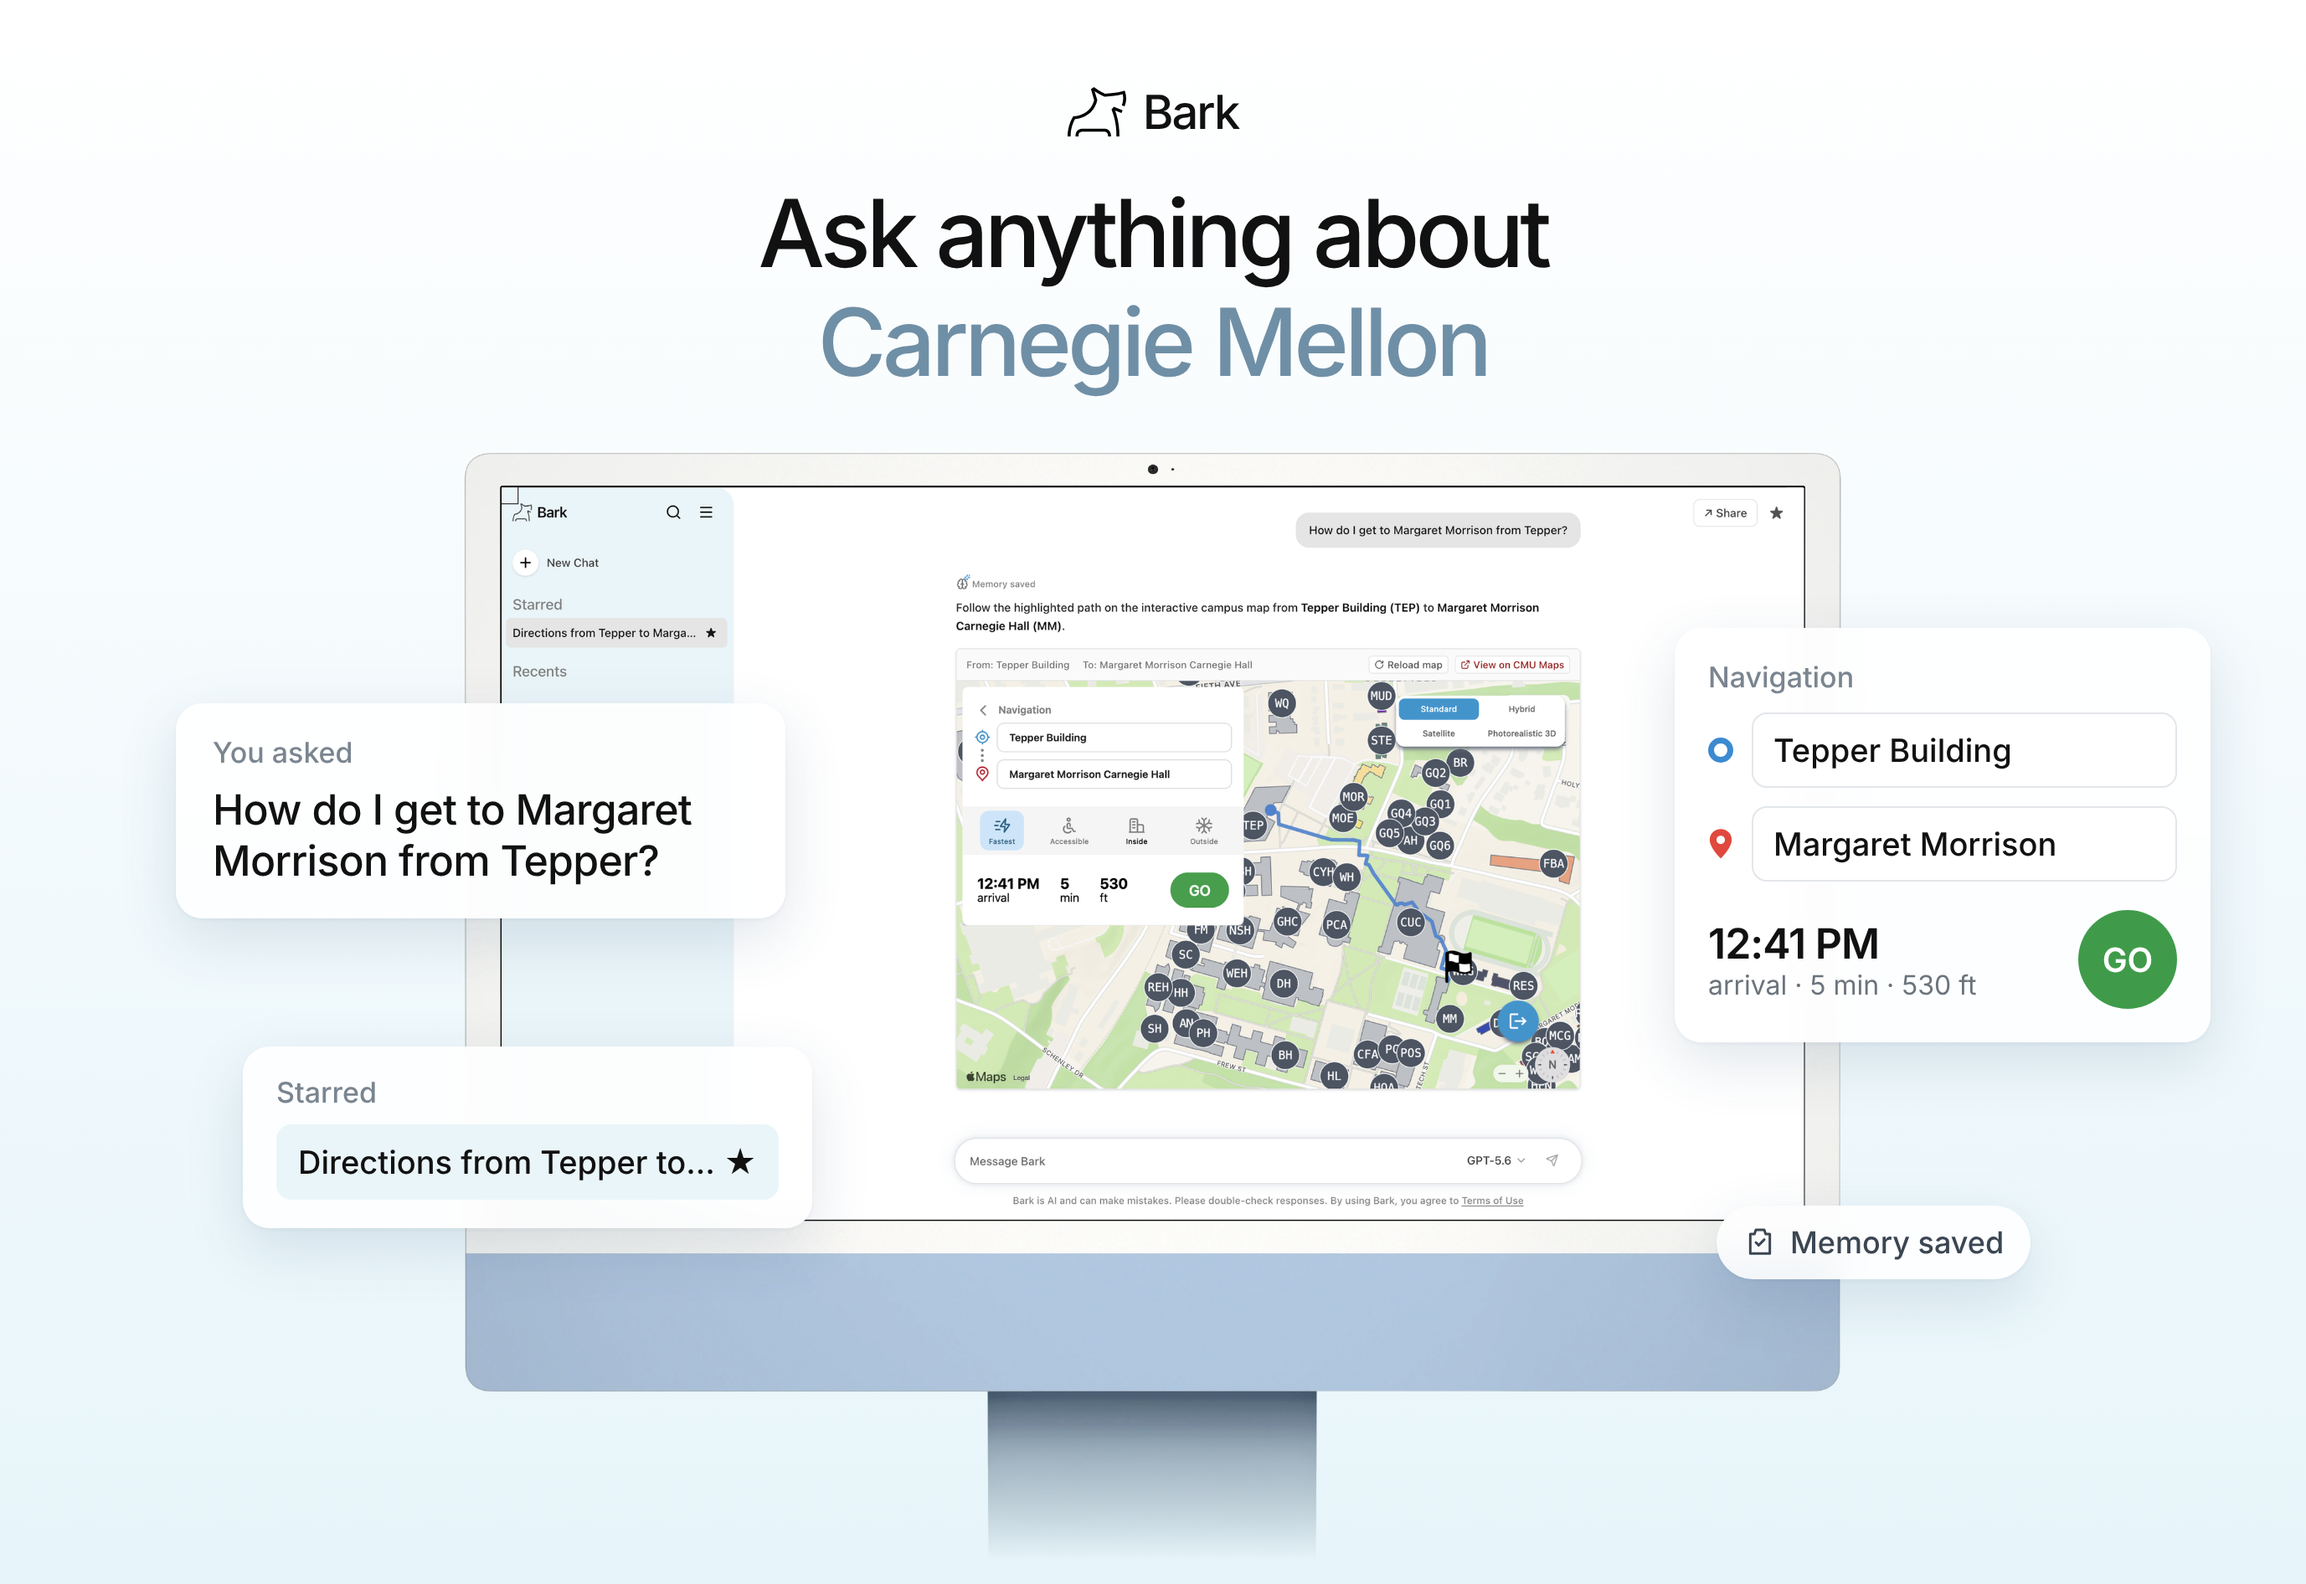
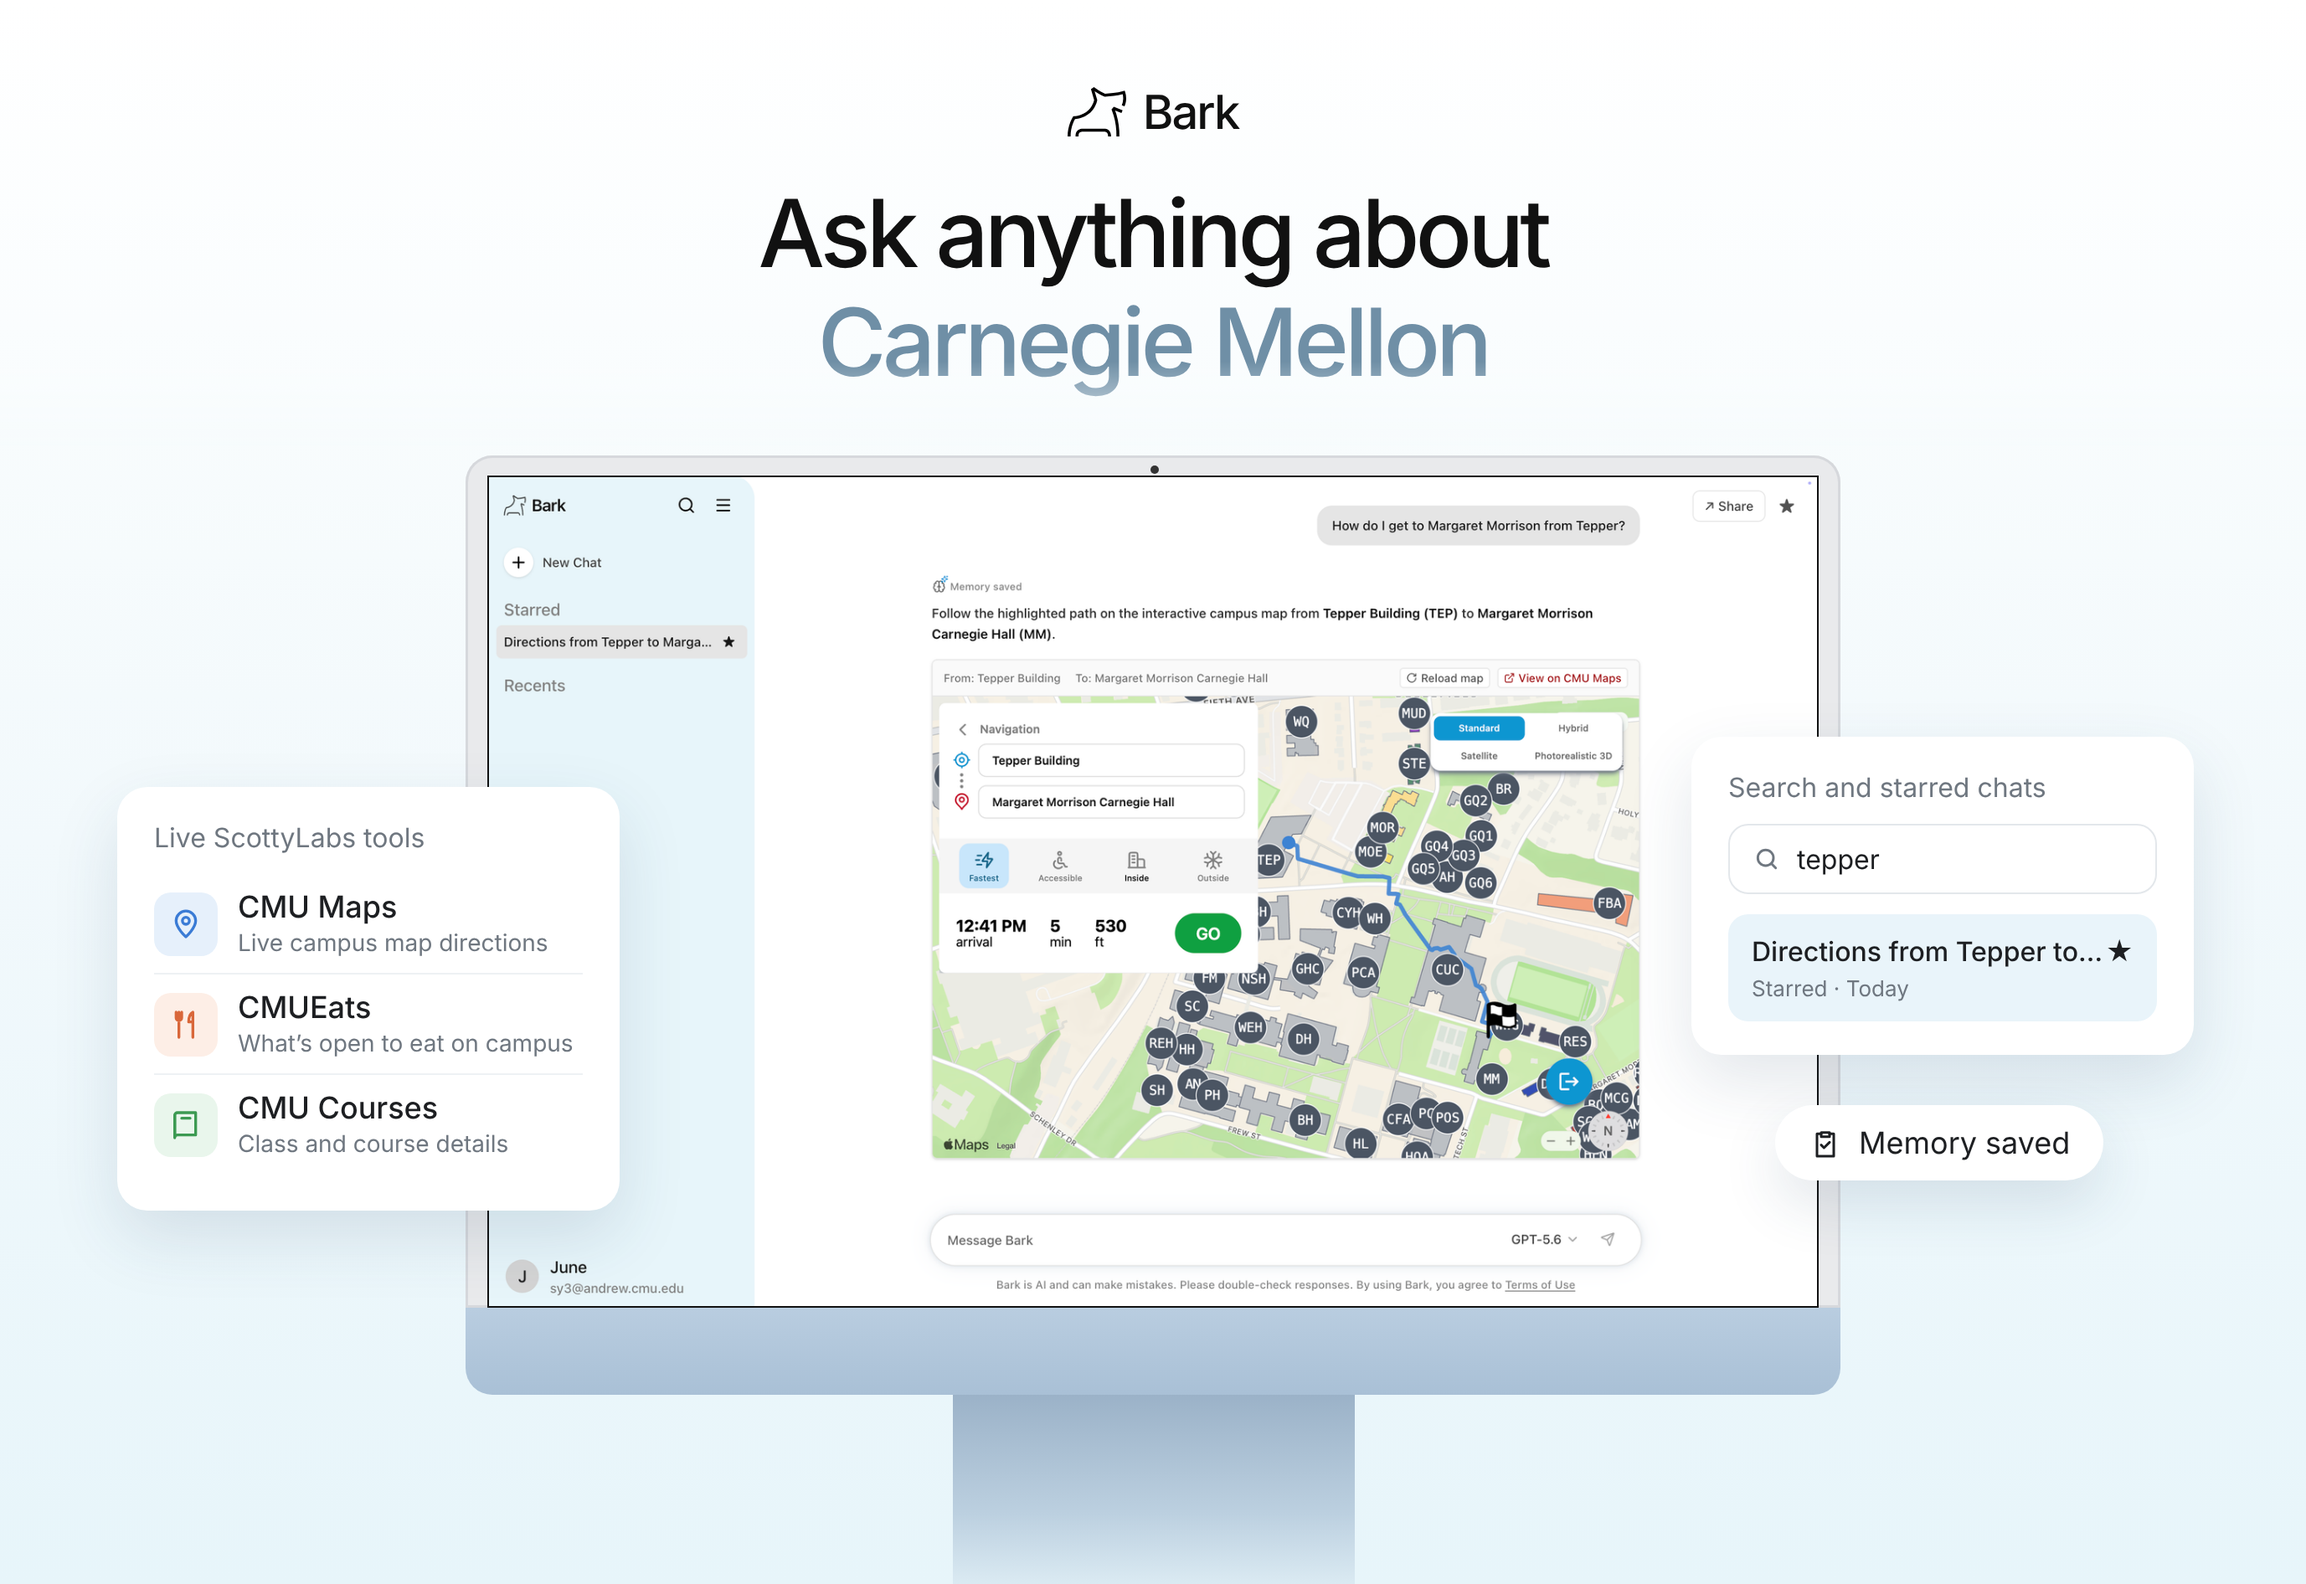
Home: Bark cover cards based on Bark's actual features (#14)
Claude-Session: https://claude.ai/code/session_01PJkMotfVeuEjavQNK4sU9G

diff --git a/index.html b/index.html
@@ -50,8 +50,8 @@
 
       <a class="project" href="cmugpt-site/index.html">
         <div class="project__media project__media--cmugpt">
-          <img src="cmugpt-site/images/cover.png?v=3" width="1377" height="946"
-            alt="Bark cover: 'Ask anything about Carnegie Mellon' above an iMac showing a Bark chat answer with an interactive campus map, with cards for the question, the walking route and a starred chat">
+          <img src="cmugpt-site/images/cover.png?v=4" width="1377" height="946"
+            alt="Bark cover: 'Ask anything about Carnegie Mellon' above an iMac showing a Bark answer with an interactive CMU Maps route, with cards for the live ScottyLabs tools (CMU Maps, CMUEats, CMU Courses), chat search with a starred chat, and memory saved">
           <video class="project__hover" data-src="cmugpt-site/images/hover.mp4?v=2" muted playsinline loop preload="none" aria-hidden="true"></video>
         </div>
         <h2 class="project__title">Bark</h2>
